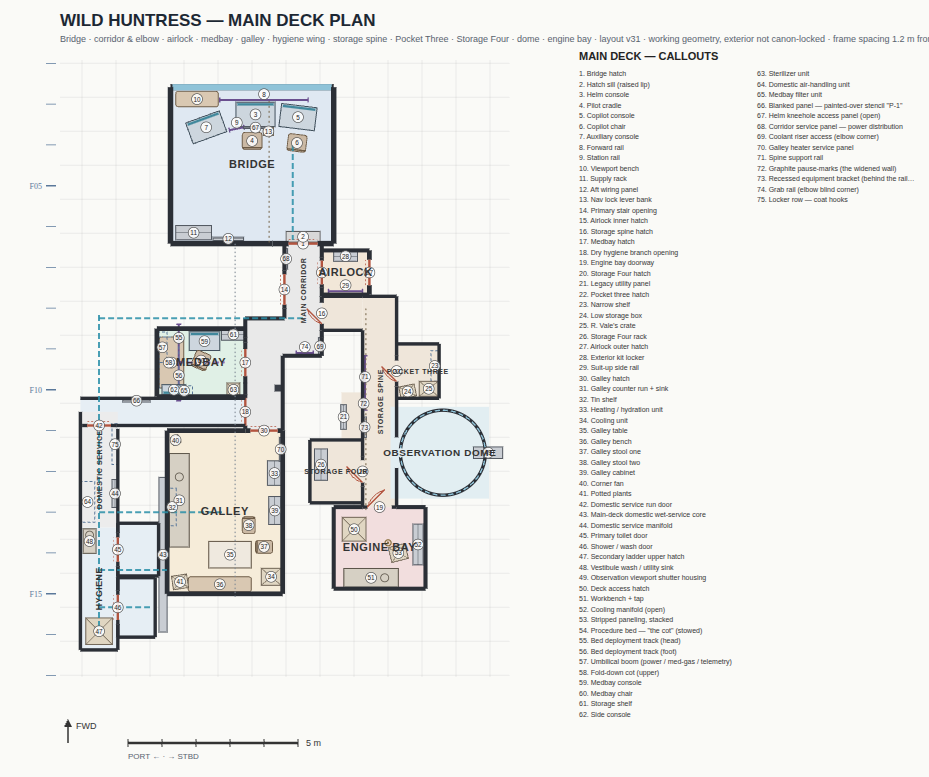
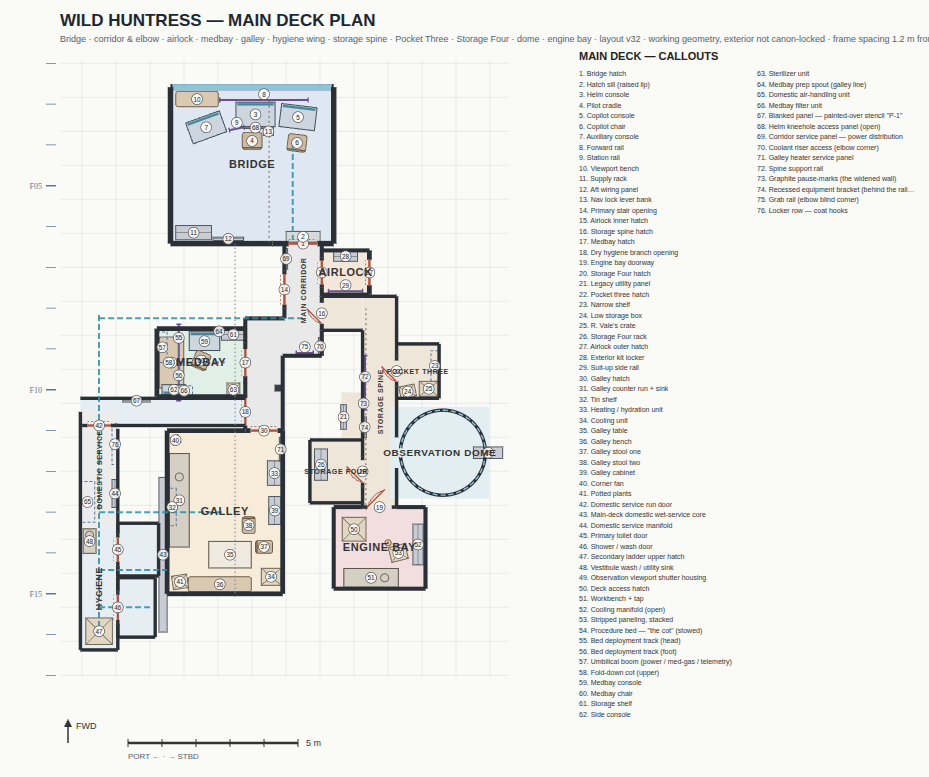
The vigil chapter: the medbay holds its own source material (v32)
Sixth field test, circular by nature: this Book 3 chapter is where
several of the medbay's oldest constraints were mined from. Staged
with all three crew in the 2.6 x 2.0 room -- Quenby on the procedure
bed, Iri at the console, Nova at the shelf -- everything places
cleanly, sightlines hold, and the acoustics deliver the scene's real
requirement: the whole conversation (ColdLight included) stays in the
room at drift-day.

Added: the medbay prep spout on the forward wall, teed off the
galley's domestic line -- the vigil room needs tea without leaving.
"Not ideal; hot enough."

Logged for the author: B.O.B.'s renewed unasked anticipation dates the
scene as a third era phase (presumption -> refusal -> care readmitted);
the "hastily carved nine" and "the garden was his" reach outside
anything yet seen; "plate seven" starts a hull plate registry that
stays prose-only while the exterior remains canon-open.

33/33 tests green; v31->v32 migration verified; maps re-exported.

Claude-Session: https://claude.ai/code/session_015mWagBw7egvKit6UWzmW2K

Changed region(s): [[0.8116, 0.0927, 0.9989, 0.278], [0.2185, 0.4015, 0.2497, 0.4324]]

diff --git a/roomwright/js/layout.js b/roomwright/js/layout.js
@@ -1404,6 +1404,13 @@ function defs(rulings) {
     evidence: 'explicit', evidenceRefs: ['med-two-beds'],
     note: 'Sterilizer unit with its blinking diagnostic loop, in the aft corner clear of the door lane.',
   });
+  add('medPrepSpout', {
+    room: 'medbay', type: 'shelf', name: 'Medbay prep spout (galley line)',
+    params: { width: 0.26, depth: 0.14, mountHeight: 1.08, tins: 0 },
+    pos: mrel(0.53, -MD / 2 + 0.08), rotY: 0, locked: false,
+    evidence: 'explicit', evidenceRefs: ['med-console'],
+    note: 'A small hot-water spout on the forward wall between console and shelf, teed off the galley’s domestic line during some refit — because the one room where somebody keeps vigil is the one room that needs tea without leaving. Not ideal; hot enough. B.O.B. dispenses through it "with the gravity of a diplomatic exchange."',
+  });
 
   // ================= LOWER DECK =================
   // The lower deck is the seam between three uses of the Huntress:
@@ -3205,7 +3212,7 @@ const DOOR_WING_KEYS = ['doorway', 'aftWallL', 'aftWallR', 'wallStbd*', 'doorSil
 // Layout-format migrations: when a generated object's DEFINITION changed
 // between app versions, these keys are force-regenerated on old projects
 // (user-added objects and rulings are untouched).
-export const LAYOUT_VERSION = 31;
+export const LAYOUT_VERSION = 32;
 export const LAYOUT_MIGRATION_KEYS = {
   3: ['corWallPort', 'spineStub*'],   // port wall split for the medbay hatch; spine stub became the real spine
   4: ['corWallStbd1', 'spnLeg2*'],    // starboard wall split for the airlock; spine extended to the engine bay
@@ -3234,5 +3241,6 @@ export const LAYOUT_MIGRATION_KEYS = {
   28: ['hygBranchWallS', 'domRunDoor'], // Next-10 review found the domestic-service run sealed at its mouth: the branch aft wall now splits around a real door (the one that "remembers weight")
   29: ['storageTwo'], // Storage Two placed (author direction: "wherever it will fit") — old registry number in the aft service passage
   30: ['d3*', 'mhDeck3*', 'cargoBay4Stencil', 'navChair'],
-  31: ['spineMarks', 'pktCrate', 'unlCacheCase'], // the R. Vale crate chapter: graphite pause-marks appear on the widened spine wall; the crate note carries its full inventory and the location-only ruling; the journal's script links to Vale's hand // the installations chapter: Deck Three fragment becomes real (mouth, hall, the wrong room, the bolt), the CARGO BAY FOUR stencil is registry archaeology, and nav finally gets the chair the prose keeps seeing
+  31: ['spineMarks', 'pktCrate', 'unlCacheCase'],
+  32: ['medPrepSpout'], // the vigil chapter: the galley-line prep spout appears on the medbay's forward wall // the R. Vale crate chapter: graphite pause-marks appear on the widened spine wall; the crate note carries its full inventory and the location-only ruling; the journal's script links to Vale's hand // the installations chapter: Deck Three fragment becomes real (mouth, hall, the wrong room, the bolt), the CARGO BAY FOUR stencil is registry archaeology, and nav finally gets the chair the prose keeps seeing
 };

diff --git a/roomwright/HUNTRESS_DESIGN_DECISIONS.md b/roomwright/HUNTRESS_DESIGN_DECISIONS.md
@@ -1684,3 +1684,17 @@ What the chapter added (v31):
 - **The two caches are linked**: the journal in the unlisted corridor and the margin notes in the crate share one cramped script. R. Vale's lore is recorded on the crate: contract systems interpreter, temporary berth, departed after an external boarding event, effects never fully removed — with partial ship-response events in B.O.B.'s memory.
 
 33/33 tests green; v30→v31 migration verified; maps re-exported (the marks have a callout on the main deck now).
+
+
+### ROOMWRIGHT IMPLEMENTATION NOTE — The vigil chapter: the room built from it holds it (v32)
+
+Sixth field test, and a circular one: this Book 3 medbay chapter is the source of several of the model's oldest constraints — "the chair behind her sat unused," the two fingers braced on the console edge, the telemetry past the cot's foot, the chair hooked into position beside the console within reach of the tea. Staged with all three crew in the 2.6 × 2.0 room — Quenby on the procedure bed, Iri standing at the console, Nova at the storage shelf — everything places cleanly, every sightline holds, and the acoustics carry the scene's real requirement: **the whole conversation stays in the room.** ColdLight, the divergence questions, the chair beat — nothing above a presence-level murmur escapes at drift-day. The shut medbay keeps its conversations, as canonized; this is the chapter that needed it.
+
+Added (v32): **the medbay prep spout** — a small hot-water point on the forward wall, teed off the galley's domestic line during some refit, because the one room where somebody keeps vigil is the one room that needs tea without leaving. "Not ideal; hot enough."
+
+Noted for the author, not actioned:
+- **B.O.B.'s renewed anticipation dates this scene.** He dims telemetry unasked, pre-heats water ("Presumptuous." / "Prepared."), and nobody orders him to stop. Door behavior dates a scene — and by Book 3 the era rule seems to have a third phase: automation as presumption (early Next), automation refused (Manual), anticipation readmitted as care. If that's the arc, the workbench's era check may eventually want a "reconciled" setting.
+- Two references reach outside anything modeled or seen: **"a hastily carved nine"** and **"the garden was his; he wanted a place without orders."** If the nine is carved into the ship somewhere, it deserves a home when its chapter surfaces.
+- "Plate seven" gives the hull a plate registry; the exterior remains canon-open, so it stays prose-only for now.
+
+33/33 tests green; v31→v32 migration verified; maps re-exported.
